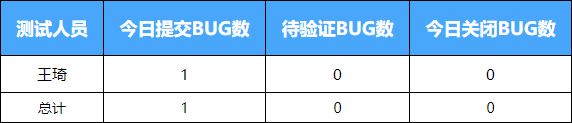
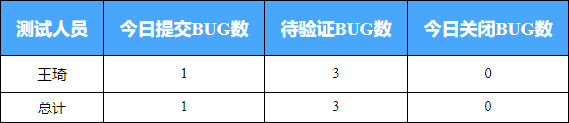
2021/4/27 优化

diff --git a/Tapd/html/developerHtml.html b/Tapd/html/developerHtml.html
@@ -5,6 +5,6 @@
     <title>模板</title>
 </head>
 <body>
-<table style="border-collapse:collapse;word-break:keep-all;white-space:nowrap;font-size:14px;"><tr style="color:#fff;background-color:#48a6fb;font-size:18px;"><th style="border-color:#000;border-width:1px;border-style:solid;padding:15px;text-align:center;">开发人员</th><th style="border-color:#000;border-width:1px;border-style:solid;padding:15px;text-align:center;">今日解决BUG数</th><th style="border-color:#000;border-width:1px;border-style:solid;padding:15px;text-align:center;">待解决BUG数</th><th style="border-color:#000;border-width:1px;border-style:solid;padding:15px;text-align:center;">今日新增BUG数</th></tr><tr><td style="border-color:#000;border-width:1px;border-style:solid;padding:8px;text-align:center;font-size:15px;">王建安</td><td style="border-color:#000;border-width:1px;border-style:solid;padding:8px;text-align:center;font-size:15px;">0</td><td style="border-color:#000;border-width:1px;border-style:solid;padding:8px;text-align:center;font-size:15px;">1</td><td style="border-color:#000;border-width:1px;border-style:solid;padding:8px;text-align:center;font-size:15px;">1</td></tr><tr><td style="border-color:#000;border-width:1px;border-style:solid;padding:5px;text-align:center;">李雄</td><td style="border-color:#000;border-width:1px;border-style:solid;padding:5px;text-align:center;">0</td><td style="border-color:#000;border-width:1px;border-style:solid;padding:5px;text-align:center;">0</td><td style="border-color:#000;border-width:1px;border-style:solid;padding:5px;text-align:center;">0</td></tr><tr><td style="border-color:#000;border-width:1px;border-style:solid;padding:5px;text-align:center;">总计</td><td style="border-color:#000;border-width:1px;border-style:solid;padding:5px;text-align:center;">0</td><td style="border-color:#000;border-width:1px;border-style:solid;padding:5px;text-align:center;">1</td><td style="border-color:#000;border-width:1px;border-style:solid;padding:5px;text-align:center;">1</td></tr></table>
+<table style="border-collapse:collapse;word-break:keep-all;white-space:nowrap;font-size:14px;"><tr style="color:#fff;background-color:#48a6fb;font-size:18px;"><th style="border-color:#000;border-width:1px;border-style:solid;padding:15px;text-align:center;">开发</th><th style="border-color:#000;border-width:1px;border-style:solid;padding:15px;text-align:center;">今日解决BUG</th><th style="border-color:#000;border-width:1px;border-style:solid;padding:15px;text-align:center;">待解决BUG</th><th style="border-color:#000;border-width:1px;border-style:solid;padding:15px;text-align:center;">今日新增BUG</th><th style="border-color:#000;border-width:1px;border-style:solid;padding:15px;text-align:center;">累计新增BUG</th><th style="border-color:#000;border-width:1px;border-style:solid;padding:15px;text-align:center;">累计解决BUG</th></tr><tr><td style="border-color:#000;border-width:1px;border-style:solid;padding:8px;text-align:center;font-size:15px;">李雄</td><td style="border-color:#000;border-width:1px;border-style:solid;padding:8px;text-align:center;font-size:15px;">0</td><td style="border-color:#000;border-width:1px;border-style:solid;padding:8px;text-align:center;font-size:15px;">0</td><td style="border-color:#000;border-width:1px;border-style:solid;padding:8px;text-align:center;font-size:15px;">0</td><td style="border-color:#000;border-width:1px;border-style:solid;padding:8px;text-align:center;font-size:15px;">0</td><td style="border-color:#000;border-width:1px;border-style:solid;padding:8px;text-align:center;font-size:15px;">0</td></tr><tr><td style="border-color:#000;border-width:1px;border-style:solid;padding:5px;text-align:center;">王建安</td><td style="border-color:#000;border-width:1px;border-style:solid;padding:5px;text-align:center;">0</td><td style="border-color:#000;border-width:1px;border-style:solid;padding:5px;text-align:center;">0</td><td style="border-color:#000;border-width:1px;border-style:solid;padding:5px;text-align:center;">0</td><td style="border-color:#000;border-width:1px;border-style:solid;padding:5px;text-align:center;">1</td><td style="border-color:#000;border-width:1px;border-style:solid;padding:5px;text-align:center;">1</td></tr><tr><td style="border-color:#000;border-width:1px;border-style:solid;padding:5px;text-align:center;">王瑞臻</td><td style="border-color:#000;border-width:1px;border-style:solid;padding:5px;text-align:center;">1</td><td style="border-color:#000;border-width:1px;border-style:solid;padding:5px;text-align:center;">0</td><td style="border-color:#000;border-width:1px;border-style:solid;padding:5px;text-align:center;">1</td><td style="border-color:#000;border-width:1px;border-style:solid;padding:5px;text-align:center;">2</td><td style="border-color:#000;border-width:1px;border-style:solid;padding:5px;text-align:center;">2</td></tr><tr><td style="border-color:#000;border-width:1px;border-style:solid;padding:5px;text-align:center;">总计</td><td style="border-color:#000;border-width:1px;border-style:solid;padding:5px;text-align:center;">1</td><td style="border-color:#000;border-width:1px;border-style:solid;padding:5px;text-align:center;">0</td><td style="border-color:#000;border-width:1px;border-style:solid;padding:5px;text-align:center;">1</td><td style="border-color:#000;border-width:1px;border-style:solid;padding:5px;text-align:center;">3</td><td style="border-color:#000;border-width:1px;border-style:solid;padding:5px;text-align:center;">3</td></tr></table>
 </body>
 </html>

diff --git a/Tapd/html/testerHtml.html b/Tapd/html/testerHtml.html
@@ -5,6 +5,6 @@
     <title>模板</title>
 </head>
 <body>
-<table style="border-collapse:collapse;word-break:keep-all;white-space:nowrap;font-size:14px;"><tr style="color:#fff;background-color:#48a6fb;font-size:18px;"><th style="border-color:#000;border-width:1px;border-style:solid;padding:15px;text-align:center;">测试人员</th><th style="border-color:#000;border-width:1px;border-style:solid;padding:15px;text-align:center;">今日提交BUG数</th><th style="border-color:#000;border-width:1px;border-style:solid;padding:15px;text-align:center;">待验证BUG数</th><th style="border-color:#000;border-width:1px;border-style:solid;padding:15px;text-align:center;">今日关闭BUG数</th></tr><tr><td style="border-color:#000;border-width:1px;border-style:solid;padding:8px;text-align:center;font-size:15px;">王琦</td><td style="border-color:#000;border-width:1px;border-style:solid;padding:8px;text-align:center;font-size:15px;">1</td><td style="border-color:#000;border-width:1px;border-style:solid;padding:8px;text-align:center;font-size:15px;">0</td><td style="border-color:#000;border-width:1px;border-style:solid;padding:8px;text-align:center;font-size:15px;">0</td></tr><tr><td style="border-color:#000;border-width:1px;border-style:solid;padding:5px;text-align:center;">总计</td><td style="border-color:#000;border-width:1px;border-style:solid;padding:5px;text-align:center;">1</td><td style="border-color:#000;border-width:1px;border-style:solid;padding:5px;text-align:center;">0</td><td style="border-color:#000;border-width:1px;border-style:solid;padding:5px;text-align:center;">0</td></tr></table>
+<table style="border-collapse:collapse;word-break:keep-all;white-space:nowrap;font-size:14px;"><tr style="color:#fff;background-color:#48a6fb;font-size:18px;"><th style="border-color:#000;border-width:1px;border-style:solid;padding:15px;text-align:center;">测试人员</th><th style="border-color:#000;border-width:1px;border-style:solid;padding:15px;text-align:center;">今日提交BUG数</th><th style="border-color:#000;border-width:1px;border-style:solid;padding:15px;text-align:center;">待验证BUG数</th><th style="border-color:#000;border-width:1px;border-style:solid;padding:15px;text-align:center;">今日关闭BUG数</th></tr><tr><td style="border-color:#000;border-width:1px;border-style:solid;padding:8px;text-align:center;font-size:15px;">王琦</td><td style="border-color:#000;border-width:1px;border-style:solid;padding:8px;text-align:center;font-size:15px;">1</td><td style="border-color:#000;border-width:1px;border-style:solid;padding:8px;text-align:center;font-size:15px;">3</td><td style="border-color:#000;border-width:1px;border-style:solid;padding:8px;text-align:center;font-size:15px;">0</td></tr><tr><td style="border-color:#000;border-width:1px;border-style:solid;padding:5px;text-align:center;">总计</td><td style="border-color:#000;border-width:1px;border-style:solid;padding:5px;text-align:center;">1</td><td style="border-color:#000;border-width:1px;border-style:solid;padding:5px;text-align:center;">3</td><td style="border-color:#000;border-width:1px;border-style:solid;padding:5px;text-align:center;">0</td></tr></table>
 </body>
 </html>

diff --git a/Tapd/main.py b/Tapd/main.py
@@ -108,7 +108,9 @@ def statisticsDta(my_datas,today,version) -> int:
     print("每日新增BUG数：{}".format(getdateNum(my_datas, {"创建时间": today, '发现版本': version})))
     print("每日解决BUG数：{}".format(getdateNum(my_datas, {"解决时间": today, '发现版本': version})))
     print("每日关闭BUG数：{}".format(getdateNum(my_datas, {"关闭时间": today, '发现版本': version})))
-    resolvedBUG = getdateNum(my_datas, {"状态": '新', '发现版本': version}) + getdateNum(my_datas, {"状态": '接受/处理', '发现版本': version}) + getdateNum(my_datas, {"状态": '重新打开', '发现版本': version})
+    resolvedBUG = getdateNum(my_datas, {"状态": '新', '发现版本': version}) + \
+                  getdateNum(my_datas, {"状态": '接受/处理', '发现版本': version}) + \
+                  getdateNum(my_datas, {"状态": '重新打开', '发现版本': version})
     print("每日待修复BUG数：{}".format(resolvedBUG))
     activation_bugs = resolvedBUG
 
@@ -129,33 +131,49 @@ def testerData(my_datas, person, today, version):
 def developerData(my_datas, person, today, version):
     developerListData = []
     solved_bugs = getdateNum(my_datas, {"解决时间": today, '修复人': person, '发现版本': version})
-    surplus_bugs = getdateNum(my_datas, {"状态": "新", '处理人': person, '发现版本': version}) + getdateNum(my_datas, {"状态": "接受/处理", '处理人': person, '发现版本': version}) + getdateNum(my_datas, {"状态": "重新打开", '处理人': person, '发现版本': version})
+    surplus_bugs = getdateNum(my_datas, {"状态": "新", '处理人': person, '发现版本': version}) + \
+                   getdateNum(my_datas, {"状态": "接受/处理", '处理人': person, '发现版本': version}) + \
+                   getdateNum(my_datas, {"状态": "重新打开", '处理人': person, '发现版本': version})
     developer_todayBugs = getdateNum(my_datas, {"创建时间": today, "状态": "新", '处理人': person, '发现版本': version}) \
                           + getdateNum(my_datas, {"创建时间": today, "状态": "接受/处理", '处理人': person, '发现版本': version})  \
                           + getdateNum(my_datas, {"创建时间": today, "状态": "重新打开", '处理人': person, '发现版本': version}) \
                           + getdateNum(my_datas, {"创建时间": today, "状态": "已解决", '修复人': person, '发现版本': version}) \
                           + getdateNum(my_datas, {"创建时间": today, "状态": "已关闭", '修复人': person, '发现版本': version}) \
                           + getdateNum(my_datas, {"创建时间": today, "状态": "已验证", '修复人': person, '发现版本': version})
+    developer_totalBugs = getdateNum(my_datas, {"状态": "新", '处理人': person, '发现版本': version}) \
+                          + getdateNum(my_datas, {"状态": "重新打开", '处理人': person, '发现版本': version}) \
+                          + getdateNum(my_datas, {"状态": "已解决", '修复人': person, '发现版本': version}) \
+                          + getdateNum(my_datas, {"状态": "已关闭", '修复人': person, '发现版本': version}) \
+                          + getdateNum(my_datas, {"状态": "已验证", '修复人': person, '发现版本': version})
+    developer_totalSolvedBugs = getdateNum(my_datas, {"状态": "已解决", '修复人': person, '发现版本': version}) \
+                          + getdateNum(my_datas, {"状态": "已关闭", '修复人': person, '发现版本': version}) \
+                          + getdateNum(my_datas, {"状态": "已验证", '修复人': person, '发现版本': version})
 
     developerListData.append(person)
     developerListData.append(str(solved_bugs))
     developerListData.append(str(surplus_bugs))
     developerListData.append(str(developer_todayBugs))
-    return developerListData, solved_bugs, surplus_bugs, developer_todayBugs
+    developerListData.append(str(developer_totalBugs))
+    developerListData.append(str(developer_totalSolvedBugs))
 
+    return developerListData, solved_bugs, surplus_bugs, developer_todayBugs, developer_totalBugs, developer_totalSolvedBugs
 
 if __name__ == '__main__':
     # 脚本初始化(注意：首次执行需要清空record.json文件)
+
+    # 发现版本
     version = '数据权限优化版本'
+    # 迭代
+    iteration = 1167410840001000247
     username = '17600445140'
     password = 'Hc17600445140'
     roboturl = 'https://qyapi.weixin.qq.com/cgi-bin/webhook/send?key=3897849e-de5a-419a-840f-d32c91e32e08'
-    developer = ["王建安", "李雄"]
+    developer = ["李雄", "王建安", "王瑞臻"]
     tester = ["王琦"]
 
     today = strftime("%Y-%m-%d", localtime(time()))
 
-    my_datas = crawlingData(driver,version,username,password)
+    my_datas = crawlingData(driver,version,iteration,username,password)
 
     # 统计总数居 -> 返回当日激活BUG数
     activation_bugs = statisticsDta(my_datas,today,version)
@@ -202,17 +220,26 @@ if __name__ == '__main__':
     developerTotalSolved_bugs = 0
     developerTotalSurplus_bugs = 0
     developerTotalDeveloper_todayBugs = 0
+    developerTotalDeveloper_totalBugs = 0
+    developerTotalDeveloper_totalSolvedBugs = 0
     # 开发
     developerTotalData = []
     for person in developer:
-        developerListData, solved_bugs, surplus_bugs, developer_todayBugs = developerData(my_datas, person, today, version)
+        developerListData, solved_bugs, surplus_bugs, developer_todayBugs, developer_totalBugs, developer_totalSolvedBugs = developerData(my_datas, person, today, version)
         developerTotalSolved_bugs = developerTotalSolved_bugs + solved_bugs
         developerTotalSurplus_bugs = developerTotalSurplus_bugs + surplus_bugs
         developerTotalDeveloper_todayBugs = developerTotalDeveloper_todayBugs + developer_todayBugs
+        developerTotalDeveloper_totalBugs = developerTotalDeveloper_totalBugs + developer_totalBugs
+        developerTotalDeveloper_totalSolvedBugs = developerTotalDeveloper_totalSolvedBugs + developer_totalSolvedBugs
         developerTotalData.append(developerListData)
-    developerTotalData.append(["总计", str(developerTotalSolved_bugs), str(developerTotalSurplus_bugs), str(developerTotalDeveloper_todayBugs)])
+    developerTotalData.append(["总计",
+                               str(developerTotalSolved_bugs),
+                               str(developerTotalSurplus_bugs),
+                               str(developerTotalDeveloper_todayBugs),
+                               str(developerTotalDeveloper_totalBugs),
+                               str(developerTotalDeveloper_totalSolvedBugs)])
 
-    Title = (('开发人员', '今日解决BUG数', '待解决BUG数', '今日新增BUG数'),)
+    Title = (('开发', '今日解决BUG', '待解决BUG', '今日新增BUG', '累计新增BUG', '累计解决BUG'),)
     developer_html = 'developerHtml.html'
     createHtml(Title, developerTotalData, developer_html)
 

diff --git a/Tapd/crawlingData.py b/Tapd/crawlingData.py
@@ -1,7 +1,7 @@
 # -*- coding:utf-8 -*-
-import urllib
+from urllib import parse
 
-def crawlingData(driver,version,username,password):
+def crawlingData(driver,version,iteration,username,password):
     driver.get("https://www.tapd.cn/cloud_logins/login")
     driver.maximize_window()
 
@@ -9,7 +9,10 @@ def crawlingData(driver,version,username,password):
     driver.find_element_by_id("password_input").send_keys(password)
     driver.find_element_by_xpath('//*[@id="tcloud_login_button"]').click()
 
-    url = "https://www.tapd.cn/67410840/bugtrace/bugreports/my_view?" + 'perpage=100&' + "data[Filter][version_report][]=" + urllib.parse.quote(version)
+    url = "https://www.tapd.cn/67410840/bugtrace/bugreports/my_view?" + "perpage=100&" + \
+          "data[Filter][version_report][]=" + parse.quote(version)  + \
+          "&data[Filter][iteration_id][]=" + str(iteration)
+
     driver.get(url)
 
     data_list = []
@@ -30,8 +33,18 @@ def crawlingData(driver,version,username,password):
         fixPeople = driver.find_elements_by_xpath('//*[@id="bug_list_content"]/tbody/tr/td[14]')
 
         for bug_title, version, severity, priority, state, handler, creator, bug_createTime, bug_closeTime, bug_solveTime, bug_verificationTime, fixPeople in zip(bug_title, version, severity, priority, state, handler, creator, bug_createTime, bug_closeTime, bug_solveTime, bug_verificationTime, fixPeople):
-            data_list.append({"bug标题":bug_title.text, "发现版本":version.text, "严重程度":severity.text, "优先级":priority.text, "状态":state.text, "处理人":handler.text.split(';')[0], "创建人":creator.text.strip(),
-                              "创建时间":bug_createTime.text.split(' ')[0], "关闭时间":bug_closeTime.text.split(' ')[0], "解决时间":bug_solveTime.text.split(' ')[0], "验证时间":bug_verificationTime.text.split(' ')[0], "修复人":fixPeople.text.strip()})
+            data_list.append({"bug标题":bug_title.text,
+                              "发现版本":version.text,
+                              "严重程度":severity.text,
+                              "优先级":priority.text,
+                              "状态":state.text,
+                              "处理人":handler.text.split(';')[0],
+                              "创建人":creator.text.strip(),
+                              "创建时间":bug_createTime.text.split(' ')[0],
+                              "关闭时间":bug_closeTime.text.split(' ')[0],
+                              "解决时间":bug_solveTime.text.split(' ')[0],
+                              "验证时间":bug_verificationTime.text.split(' ')[0],
+                              "修复人":fixPeople.text.strip()})
         if len(driver.find_elements_by_xpath('//div[@id="simple_pager_div"]/span[2]/a')) != 0:
             driver.find_element_by_xpath('//span[@class="page-btn page-next"]').click()
         else:
